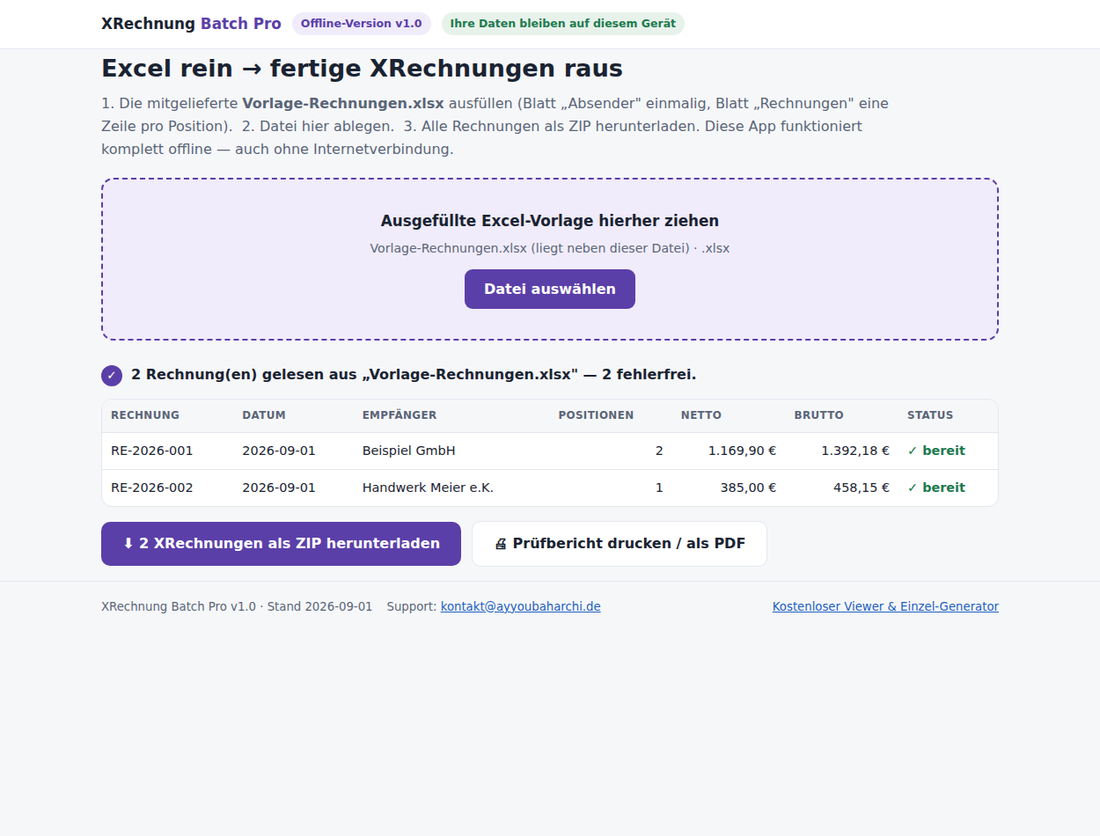
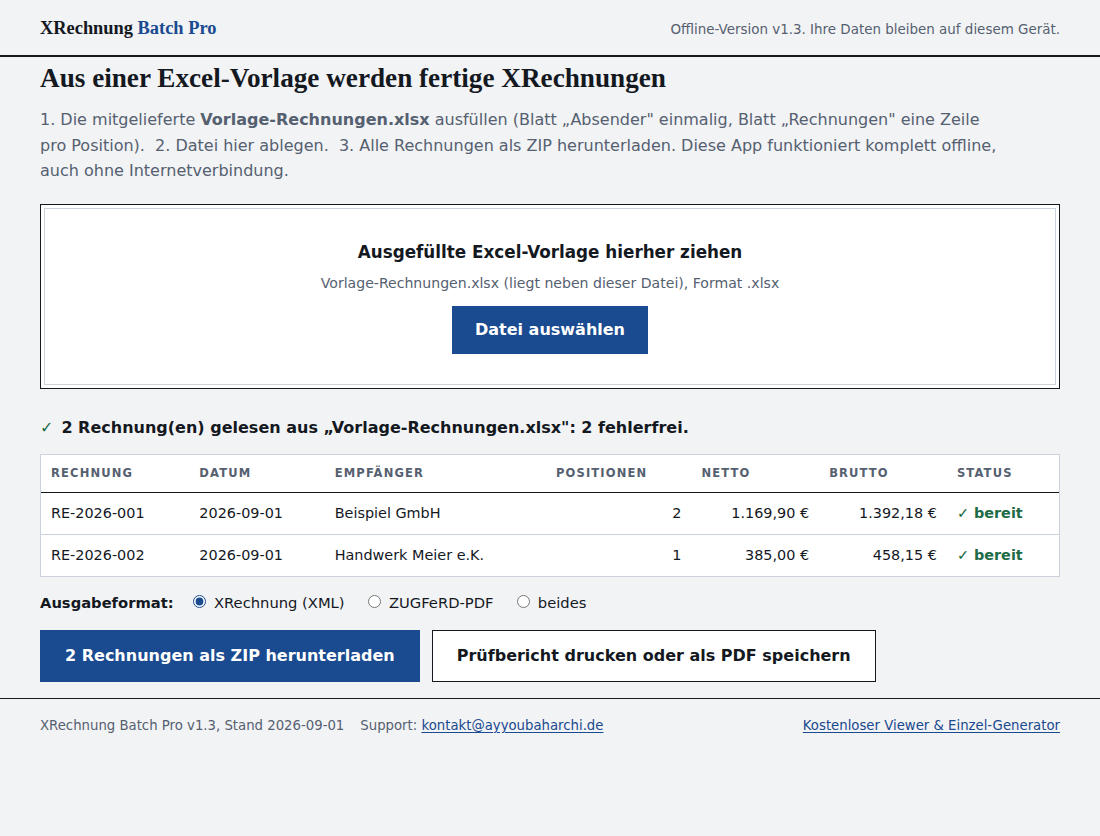
Batch-App im Website-System (v1.3), frischer App-Screenshot, EN-Seiten strukturell angeglichen und redigiert

diff --git a/pro/app-template.html b/pro/app-template.html
@@ -6,59 +6,65 @@
 <title>XRechnung Batch Pro – Excel zu XRechnung (offline)</title>
 <meta name="robots" content="noindex">
 <style>
+/* Gestaltung "Fachliteratur" wie auf der Website: Serifen-Titel, Urkundenblau,
+   Dokumentlinien, keine Kästen. Eine Datei, läuft offline; darum Systemschriften. */
 :root{
-  --bg:#f6f7f9; --surface:#ffffff; --ink:#1a2332; --ink-soft:#5a6577; --line:#e3e7ee;
-  --accent:#1a4a8f; --accent-ink:#ffffff; --ok:#1d7a4f; --okbg:#e7f2ea;
-  --err-bg:#fbecec; --err-ink:#a03030; --warn-bg:#fdf3e3; --warn-ink:#7a5a1d;
-  --pro:#5b3fa8; --probg:#f0ecfb;
+  --grund:#f2f3f5; --flaeche:#ffffff; --tinte:#14181f; --grau:#556070; --linie:#ccd2db;
+  --blau:#1a4a8f; --blau-dunkel:#123663; --auf-blau:#ffffff;
+  --ok:#1d6b46; --rot:#9c2f2f; --rotflaeche:#f7e7e7;
+  --serif:Charter,"Bitstream Charter",Cambria,Georgia,"Times New Roman",serif;
 }
 @media (prefers-color-scheme: dark){
   :root{
-    --bg:#12161d; --surface:#1a2029; --ink:#e8ecf2; --ink-soft:#9aa5b5; --line:#2b3442;
-    --accent:#7aa5e0; --accent-ink:#0e1420; --ok:#5cc48f; --okbg:#1c2f24;
-    --err-bg:#341e1e; --err-ink:#e08a8a; --warn-bg:#2e2617; --warn-ink:#e0c070;
-    --pro:#b39ce8; --probg:#251d38;
+    --grund:#13161b; --flaeche:#1b1f26; --tinte:#e8ebef; --grau:#9aa3b1; --linie:#333a45;
+    --blau:#7aa5e0; --blau-dunkel:#a3c2ec; --auf-blau:#0f1521;
+    --ok:#63bd8e; --rot:#dd8f8f; --rotflaeche:#33211f;
   }
 }
 *{box-sizing:border-box}
-body{margin:0;background:var(--bg);color:var(--ink);font:16px/1.6 system-ui,-apple-system,"Segoe UI",Roboto,sans-serif}
+body{margin:0;background:var(--grund);color:var(--tinte);font:16px/1.6 "Segoe UI",system-ui,-apple-system,"Helvetica Neue",Arial,sans-serif;font-variant-numeric:tabular-nums}
 .wrap{max-width:1060px;margin:0 auto;padding:0 20px}
-header.top{padding:14px 0;border-bottom:1px solid var(--line);background:var(--surface)}
-.top .wrap{display:flex;align-items:center;gap:12px;flex-wrap:wrap}
-.logo{font-weight:700;font-size:1.05rem}
-.logo span{color:var(--pro)}
-.badge{background:var(--probg);color:var(--pro);font-size:.78rem;font-weight:700;padding:3px 10px;border-radius:0}
-.badge.green{background:var(--okbg);color:var(--ok)}
+a{color:var(--blau);text-decoration:underline;text-underline-offset:2px}
+:focus-visible{outline:2px solid var(--blau);outline-offset:1px}
+header.top{border-bottom:2px solid var(--tinte)}
+.top .wrap{display:flex;align-items:baseline;gap:16px;flex-wrap:wrap;padding-top:14px;padding-bottom:12px}
+.logo{font-family:var(--serif);font-weight:700;font-size:1.15rem}
+.logo span{color:var(--blau)}
+.kopfzeile{color:var(--grau);font-size:.84rem;margin-left:auto}
 main{padding:28px 0 40px}
-h1{font-size:clamp(1.3rem,3vw,1.7rem);margin:0 0 6px}
-.sub{color:var(--ink-soft);max-width:56em;margin:0 0 20px}
-#drop{border:2px dashed var(--pro);border-radius:0;background:var(--probg);padding:34px 20px;text-align:center;cursor:pointer}
-#drop.over{border-style:solid;background:var(--surface)}
-#drop .big{font-weight:700;font-size:1.05rem}
-#drop .hint{color:var(--ink-soft);font-size:.88rem;margin-top:6px}
-#drop button{margin-top:12px;background:var(--pro);color:#fff;border:0;font:inherit;font-weight:600;padding:10px 22px;border-radius:0;cursor:pointer}
-.step{display:flex;gap:10px;align-items:baseline;margin:26px 0 10px;font-weight:700}
-.step .n{background:var(--pro);color:#fff;border-radius:0;width:24px;height:24px;display:inline-flex;align-items:center;justify-content:center;font-size:.85rem;flex:none}
-.errbox{background:var(--err-bg);color:var(--err-ink);border-radius:0;padding:13px 16px;margin:14px 0;font-size:.9rem;display:none}
+h1{font-family:var(--serif);font-size:clamp(1.3rem,3vw,1.7rem);margin:0 0 6px}
+.sub{color:var(--grau);max-width:60em;margin:0 0 20px}
+#drop{border:1px solid var(--tinte);outline:1px solid var(--linie);outline-offset:-5px;background:var(--flaeche);padding:34px 20px;text-align:center;cursor:pointer}
+#drop.over{outline:2px solid var(--blau);outline-offset:-5px}
+#drop .big{font-weight:600;font-size:1.05rem}
+#drop .hint{color:var(--grau);font-size:.88rem;margin-top:6px}
+#drop button{margin-top:12px;background:var(--blau);color:var(--auf-blau);border:1px solid var(--blau);font:inherit;font-weight:600;padding:10px 22px;cursor:pointer}
+#drop button:hover{background:var(--blau-dunkel);border-color:var(--blau-dunkel)}
+.step{margin:26px 0 10px;font-weight:700}
+.step .n{color:var(--ok);margin-right:8px}
+.errbox{border-left:3px solid var(--rot);background:var(--rotflaeche);color:var(--rot);padding:13px 16px;margin:14px 0;font-size:.9rem;display:none}
 .errbox.show{display:block}
 .errbox ul{margin:6px 0 0;padding-left:20px;max-height:220px;overflow:auto}
-.tablewrap{overflow-x:auto;background:var(--surface);border:1px solid var(--line);border-radius:0;margin:14px 0}
+.tablewrap{overflow-x:auto;background:var(--flaeche);border:1px solid var(--linie);margin:14px 0}
 table{width:100%;border-collapse:collapse;font-size:.9rem}
-th{background:var(--bg);text-align:left;font-size:.74rem;text-transform:uppercase;letter-spacing:.4px;color:var(--ink-soft);padding:9px 10px}
-td{padding:9px 10px;border-top:1px solid var(--line);vertical-align:top}
+th{text-align:left;font-size:.72rem;text-transform:uppercase;letter-spacing:.1em;color:var(--grau);padding:9px 10px;border-bottom:1px solid var(--tinte);font-weight:600}
+td{padding:9px 10px;border-top:1px solid var(--linie);vertical-align:top}
 td.r{text-align:right;white-space:nowrap}
 .st-ok{color:var(--ok);font-weight:700}
-.st-err{color:var(--err-ink);font-weight:700}
-.st-err small{display:block;font-weight:400;color:var(--err-ink)}
+.st-err{color:var(--rot);font-weight:700}
+.st-err small{display:block;font-weight:400;color:var(--rot)}
 .cta{display:flex;gap:12px;align-items:center;flex-wrap:wrap;margin:16px 0}
-.cta button{font:inherit;font-weight:700;border-radius:0;padding:12px 24px;cursor:pointer;border:0;background:var(--pro);color:#fff;font-size:1rem}
-.cta button.sec{background:var(--surface);color:var(--ink);border:1px solid var(--line)}
+.cta button{font:inherit;font-weight:600;padding:12px 24px;cursor:pointer;border:1px solid var(--blau);background:var(--blau);color:var(--auf-blau);font-size:1rem}
+.cta button:hover{background:var(--blau-dunkel);border-color:var(--blau-dunkel)}
+.cta button.sec{background:var(--flaeche);color:var(--tinte);border:1px solid var(--tinte)}
+.cta button.sec:hover{background:var(--grund)}
 .cta button:disabled{opacity:.45;cursor:not-allowed}
 .okline{color:var(--ok);font-weight:600;font-size:.9rem}
-footer{border-top:1px solid var(--line);padding:18px 0 30px;color:var(--ink-soft);font-size:.83rem}
+.fmt input{accent-color:var(--blau)}
+footer{border-top:1px solid var(--tinte);padding:16px 0 28px;color:var(--grau);font-size:.83rem}
 footer .wrap{display:flex;gap:16px;flex-wrap:wrap}
-a{color:var(--accent)}
 #report{display:none}
+@media (prefers-reduced-motion: no-preference){a,button{transition:background-color .12s,color .12s,border-color .12s}}
 @media print{
   body{background:#fff}
   header.top,#drop,.step,.cta,.errbox,footer,.tablewrap.screen,.introline{display:none !important}
@@ -71,13 +77,12 @@ a{color:var(--accent)}
 <header class="top">
   <div class="wrap">
     <div class="logo">XRechnung <span>Batch Pro</span></div>
-    <span class="badge">Offline-Version {{VERSION}}</span>
-    <span class="badge green">Ihre Daten bleiben auf diesem Gerät</span>
+    <span class="kopfzeile">Offline-Version {{VERSION}}. Ihre Daten bleiben auf diesem Gerät.</span>
   </div>
 </header>
 
 <main class="wrap">
-  <h1>Excel rein → fertige XRechnungen raus</h1>
+  <h1>Aus einer Excel-Vorlage werden fertige XRechnungen</h1>
   <p class="sub introline">1. Die mitgelieferte <strong>Vorlage-Rechnungen.xlsx</strong> ausfüllen (Blatt „Absender" einmalig,
   Blatt „Rechnungen" eine Zeile pro Position). &nbsp;2. Datei hier ablegen. &nbsp;3. Alle Rechnungen als ZIP herunterladen.
   Diese App funktioniert komplett offline, auch ohne Internetverbindung.</p>
@@ -92,28 +97,28 @@ a{color:var(--accent)}
   <div class="errbox" id="errbox"></div>
 
   <div id="resultarea" style="display:none">
-    <div class="step"><span class="n">✓</span> <span id="summary"></span></div>
+    <div class="step"><span class="n">✓</span><span id="summary"></span></div>
     <div class="tablewrap screen">
       <table>
         <thead><tr><th>Rechnung</th><th>Datum</th><th>Empfänger</th><th class="r">Positionen</th><th class="r">Netto</th><th class="r">Brutto</th><th>Status</th></tr></thead>
         <tbody id="rows"></tbody>
       </table>
     </div>
-    <div style="margin:12px 0 4px;font-size:.92rem">
+    <div class="fmt" style="margin:12px 0 4px;font-size:.92rem">
       <b>Ausgabeformat:</b>
       <label style="margin-left:10px"><input type="radio" name="fmt" value="xml" checked> XRechnung (XML)</label>
       <label style="margin-left:14px"><input type="radio" name="fmt" value="pdf"> ZUGFeRD-PDF</label>
       <label style="margin-left:14px"><input type="radio" name="fmt" value="both"> beides</label>
     </div>
     <div class="cta">
-      <button type="button" id="zipbtn">⬇ <span id="zipcount"></span> Rechnungen als ZIP herunterladen</button>
-      <button type="button" class="sec" id="reportbtn">🖨 Prüfbericht drucken / als PDF</button>
+      <button type="button" id="zipbtn"><span id="zipcount"></span> Rechnungen als ZIP herunterladen</button>
+      <button type="button" class="sec" id="reportbtn">Prüfbericht drucken oder als PDF speichern</button>
       <span class="okline" id="doneline"></span>
     </div>
   </div>
 
   <div id="report">
-    <h1>Prüfbericht – XRechnung-Stapelerstellung</h1>
+    <h1>Prüfbericht: XRechnung-Stapelerstellung</h1>
     <p id="reportmeta"></p>
     <div class="tablewrap"><table>
       <thead><tr><th>Rechnung</th><th>Datum</th><th>Empfänger</th><th class="r">Netto</th><th class="r">USt</th><th class="r">Brutto</th><th>Ergebnis</th></tr></thead>
@@ -121,7 +126,7 @@ a{color:var(--accent)}
     </table></div>
     <p id="reporttotals" style="font-weight:700"></p>
     <p style="font-size:.8rem;color:#555">Format: XRechnung 3.0 (EN 16931, UBL). Plausibilität geprüft (Pflichtfelder, Summenlogik).
-    Erstellt mit XRechnung Batch Pro {{VERSION}} – Verarbeitung vollständig lokal, ohne Datenübertragung. Keine Steuer-/Rechtsberatung.</p>
+    Erstellt mit XRechnung Batch Pro {{VERSION}}. Verarbeitung vollständig lokal, ohne Datenübertragung. Keine Steuerberatung und keine Rechtsberatung.</p>
   </div>
 </main>
 

diff --git a/docs/en/index.html b/docs/en/index.html
@@ -119,18 +119,18 @@ ul.ratgeber li{border-top:1px solid var(--linie);padding:10px 0}
 </header>
 
 <main class="wrap">
-  <h1>Open &amp; read e-invoices – right in your browser</h1>
+  <h1>Open and read e-invoices, right in your browser</h1>
   <p class="sub">View <strong>XRechnung</strong> (XML), <strong>ZUGFeRD / Factur-X</strong> PDFs and
   <strong>EN 16931 UBL</strong> invoices (incl. Peppol BIS style) in a clean, human-readable layout;
-  and print them to PDF. Your file is <strong>never uploaded</strong>: everything runs locally on your
+  and print them to PDF. Your file is <strong>never uploaded</strong>; everything runs locally on your
   device. Works on Windows, macOS and Linux.</p>
 
   <div id="drop" role="button" tabindex="0" aria-label="Select or drop an e-invoice">
     <div class="big">Drop your e-invoice here</div>
-    <div class="hint">XRechnung / UBL / CII (.xml) or ZUGFeRD / Factur-X (.pdf); multiple files supported</div>
+    <div class="hint">XRechnung / UBL / CII (.xml) or ZUGFeRD / Factur-X (.pdf), multiple files supported</div>
     <button type="button" id="pick">Choose file</button>
     <input type="file" id="fileinput" accept=".xml,.pdf,application/xml,text/xml,application/pdf" multiple hidden>
-    <div class="local-note">✓ Privacy: your invoice never leaves your device</div>
+    <div class="local-note">Your invoice never leaves your device.</div>
   </div>
 
   <div id="filelist" aria-label="Loaded files"></div>
@@ -148,14 +148,20 @@ ul.ratgeber li{border-top:1px solid var(--linie);padding:10px 0}
 
   <section class="content">
     <h2>What this tool does</h2>
-    <div class="cardgrid">
-      <div class="card"><h3>XRechnung &amp; UBL</h3><p>Reads both official XML syntaxes (UBL and UN/CEFACT CII) used across the EU under EN 16931: including German XRechnung and Peppol-BIS-style invoices.</p></div>
-      <div class="card"><h3>ZUGFeRD / Factur-X PDFs</h3><p>Extracts and displays the machine-readable XML embedded in hybrid invoice PDFs: so you see what accounting systems actually read.</p></div>
-      <div class="card"><h3>Convert to PDF</h3><p>Save the rendered view as a PDF via your browser's print dialog, handy for filing and forwarding.</p></div>
-      <div class="card"><h3>Plausibility checks</h3><p>Flags missing mandatory fields and inconsistent totals (net + VAT ≠ gross, line sums).</p></div>
-      <div class="card"><h3>No upload, works offline</h3><p>All processing happens in your browser. No third-party requests at all: after the first load the page even works offline.</p></div>
-      <div class="card"><h3>Validate against official rules</h3><p><a href="validate.html">Full business-rule validation</a> (EN 16931 + German XRechnung CIUS) with a printable report: also 100% local.</p></div>
-    </div>
+    <dl class="funktionen">
+      <dt>XRechnung &amp; UBL</dt>
+      <dd>Reads both official XML syntaxes (UBL and UN/CEFACT CII) used across the EU under EN 16931, including German XRechnung and Peppol BIS style invoices.</dd>
+      <dt>ZUGFeRD / Factur-X PDFs</dt>
+      <dd>Extracts and displays the machine-readable XML embedded in hybrid invoice PDFs, so you see what accounting systems actually read.</dd>
+      <dt>Convert to PDF</dt>
+      <dd>Save the rendered view as a PDF via your browser's print dialog, handy for filing and forwarding.</dd>
+      <dt>Plausibility checks</dt>
+      <dd>Flags missing mandatory fields and inconsistent totals (net + VAT ≠ gross, line sums).</dd>
+      <dt>No upload, works offline</dt>
+      <dd>All processing happens in your browser. There are no third-party requests at all, and after the first load the page even works offline.</dd>
+      <dt>Validate against official rules</dt>
+      <dd><a href="validate.html">Full business-rule validation</a> (EN 16931 + German XRechnung CIUS) with a printable report, also fully local.</dd>
+    </dl>
   </section>
 
   <section class="content" id="faq">
@@ -165,7 +171,7 @@ ul.ratgeber li{border-top:1px solid var(--linie);padding:10px 0}
     <h2>Frequently asked questions</h2>
     <details class="faq"><summary>How do I open an XRechnung / Factur-X file?</summary><p>Drag the file into the area above or click “Choose file”. Double-clicking the XML itself usually opens a text editor full of angle brackets: that's what this viewer is for.</p></details>
     <details class="faq"><summary>Is my invoice uploaded anywhere?</summary><p>No. The page runs entirely in your browser and loads nothing from third-party servers. It's suitable for confidential invoices.</p></details>
-    <details class="faq"><summary>Why should I look at the XML inside a ZUGFeRD/Factur-X PDF?</summary><p>Because for profiles at EN 16931 level, the embedded XML is the authoritative invoice content: accounting software processes the data, not the PDF image. If they differ, you want to know.</p></details>
+    <details class="faq"><summary>Why should I look at the XML inside a ZUGFeRD/Factur-X PDF?</summary><p>Because for profiles at EN 16931 level, the embedded XML is the authoritative invoice content. Accounting software processes the data, not the PDF image. If they differ, you want to know.</p></details>
     <details class="faq"><summary>What does it cost?</summary><p>Nothing. Viewing, checking and printing are free, with no registration.</p></details>
   </section>
 </main>

diff --git a/docs/en/factur-x.html b/docs/en/factur-x.html
@@ -46,14 +46,14 @@ h2{font-size:1.25rem;margin:30px 0 8px}
 <main class="wrap">
   <h1>Factur-X: the invoice inside the PDF</h1>
   <p class="lead">A <strong>Factur-X</strong> invoice (known as <strong>ZUGFeRD</strong> in Germany) looks
-  like a normal PDF: but the real invoice travels inside it as an embedded
+  like a normal PDF, but the real invoice travels inside it as an embedded
   <strong>XML data file</strong> that accounting software reads. Here is how to see what's actually in
   there, and why you should.</p>
 
   <div class="steps">
     <ol>
       <li>Open the free <strong><a href="index.html">e-invoice viewer</a></strong> (no sign-up, runs in your browser)</li>
-      <li>Drop the Factur-X / ZUGFeRD PDF: the viewer extracts the embedded <code>factur-x.xml</code> and shows the structured data: amounts, line items, IBAN, due date</li>
+      <li>Drop the Factur-X or ZUGFeRD PDF. The viewer extracts the embedded <code>factur-x.xml</code> and shows the structured data: amounts, line items, IBAN, due date</li>
       <li>Optionally run the <strong><a href="validate.html">official-rules validation</a></strong> and print the report</li>
     </ol>
   </div>
@@ -61,17 +61,17 @@ h2{font-size:1.25rem;margin:30px 0 8px}
   <a class="cta" style="background:var(--surface);color:var(--ink);border:2px solid var(--accent)" href="validate.html">Validate it</a></p>
   <p style="text-align:center;font-size:.88rem;color:var(--ok);font-weight:600">✓ 100% local processing – your invoice never leaves your device</p>
 
-  <h2>Factur-X, ZUGFeRD, XRechnung, Peppol: quick map</h2>
+  <h2>Factur-X, ZUGFeRD, XRechnung and Peppol at a glance</h2>
   <p><strong>Factur-X / ZUGFeRD 2.x</strong>: hybrid PDF + embedded CII XML (identical Franco-German
   standard). <strong>XRechnung</strong>: pure XML, required by German public authorities.
   <strong>Peppol BIS Billing</strong>: UBL XML used across the EU network. All of them implement the
-  European semantic standard <strong>EN 16931</strong>: and all of them can be opened with the
+  European semantic standard <strong>EN 16931</strong>, and all of them can be opened with the
   <a href="index.html">viewer</a> on this site.</p>
 
   <h2>Why check the embedded XML?</h2>
-  <p>For profiles at EN 16931 level the XML is the <em>authoritative</em> content: automated payment,
+  <p>For profiles at EN 16931 level the XML is the <em>authoritative</em> content. Automated payment,
   approval and archiving processes consume the data, not the PDF image. A mismatch between the visible
-  PDF and the embedded data: whether a generator bug or manipulation: only becomes visible when you
+  PDF and the embedded data, whether from a generator bug or from manipulation, only becomes visible when you
   actually look at the XML. The viewer also flags missing mandatory fields and inconsistent totals.</p>
 
   <div class="notice"><strong>Retention:</strong> Keep the original PDF file unchanged in your records ;

diff --git a/docs/en/peppol-invoice-viewer.html b/docs/en/peppol-invoice-viewer.html
@@ -4,7 +4,7 @@
 <meta charset="UTF-8">
 <meta name="viewport" content="width=device-width, initial-scale=1">
 <title>Peppol invoice viewer – open and read Peppol BIS / UBL invoices (free, no upload)</title>
-<meta name="description" content="Open a Peppol BIS Billing 3.0 invoice (UBL XML) and read it as a normal document: totals, line items, payment details. Free, runs entirely in your browser – no upload, no registration.">
+<meta name="description" content="Open a Peppol BIS Billing 3.0 invoice (UBL XML) and read it as a normal document with totals, line items and payment details. Free, runs entirely in your browser, no upload and no registration.">
 <link rel="canonical" href="https://ayyoubaha.github.io/e-rechnung-viewer/en/peppol-invoice-viewer.html">
 <meta property="og:title" content="Peppol invoice viewer – free, no upload">
 <meta property="og:type" content="article">
@@ -42,15 +42,15 @@ h2{font-size:1.25rem;margin:30px 0 8px}
 <main class="wrap">
   <h1>Peppol invoice viewer: read Peppol BIS / UBL invoices as normal documents</h1>
   <p class="lead">Invoices exchanged over the <strong>Peppol network</strong> arrive as
-  <strong>UBL XML</strong> (Peppol BIS Billing 3.0): machine-readable data, not a document.
+  <strong>UBL XML</strong> (Peppol BIS Billing 3.0), machine-readable data rather than a document.
   Double-clicking shows raw code. This free viewer renders the same file as a human-readable
   invoice, <strong>entirely in your browser</strong>.</p>
 
   <div class="steps">
     <ol>
       <li><strong><a href="index.html">Open the E-Invoice Viewer</a></strong> (free, no registration)</li>
-      <li>Drag the Peppol/UBL XML file in: the viewer parses the EN 16931 data model</li>
-      <li>Read totals, line items, VAT breakdown, payment terms and bank details: print or save as PDF</li>
+      <li>Drag the Peppol or UBL XML file in; the viewer parses the EN 16931 data model</li>
+      <li>Read totals, line items, VAT breakdown, payment terms and bank details, then print or save as PDF</li>
     </ol>
   </div>
   <a class="cta" href="index.html">Open a Peppol invoice now →</a>
